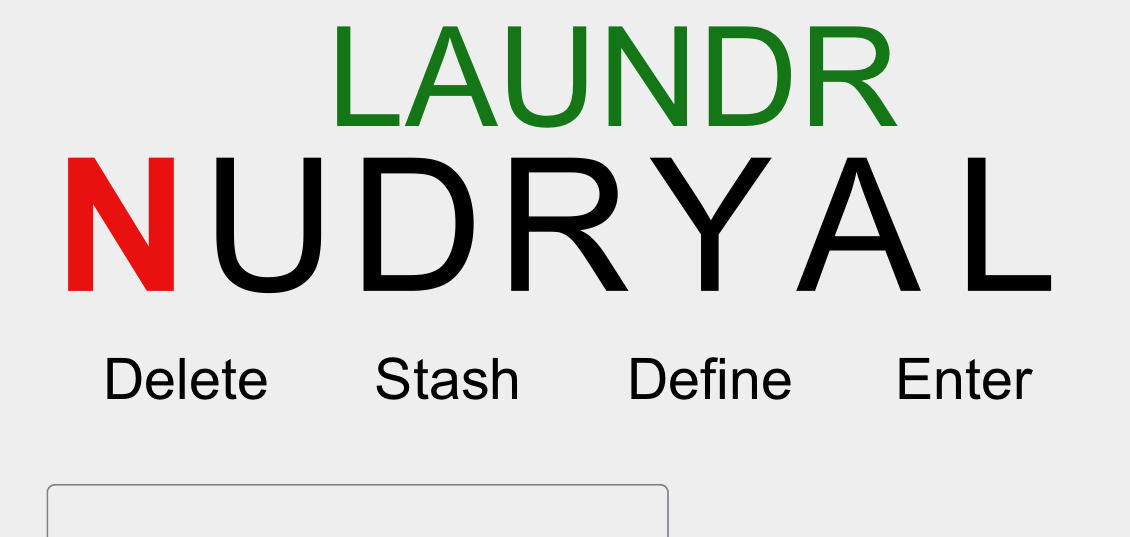
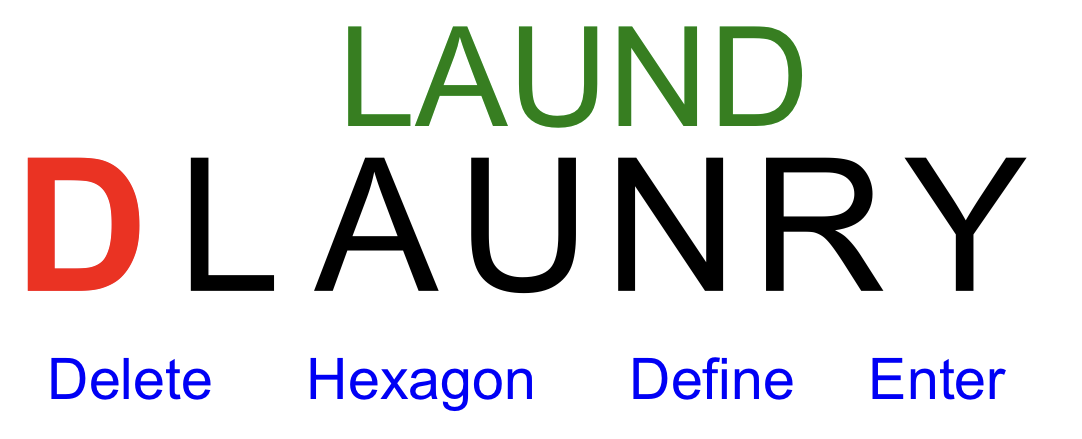
red space, doc tweaks

diff --git a/nytbee/js/nytbee9.js b/nytbee/js/nytbee9.js
@@ -1,0 +1,133 @@
+var lets;
+var nw;
+var hnw;
+var main;
+function init() {
+    nw   = document.getElementById('new_words');
+    hnw  = document.getElementById('hidden_new_words');
+    lets = document.getElementById('lets');
+    main = document.getElementById('main');
+}
+function empty(s) {
+    return s.trim().length === 0;
+}
+function add_let(c) {
+    lets.innerHTML += c;
+    if (c == ' ') {
+        var dis = document.getElementById('pos31').style.display;
+        if (dis != 'none') {
+            for (num = 1; num <= 3; ++num) {
+                document.getElementById('pos3' + num).style.display = 'none';
+            }
+        }
+        else if (lets.innerHTML.length > 16) {
+            lets.style.fontSize = '24px';
+        }
+    }
+}
+function add_redlet(c) {
+    lets.innerHTML += '<span class=red>' + c + '</span>';
+}
+// hello => hell
+// hell<span class="red">o</span> => hell
+function del_let() {
+    var s = lets.innerHTML;
+    var l = s.length;
+    if (s.substring(l-1) == '>') {
+        s = s.substring(0, l-26);
+    }
+    else {
+        s = s.substring(0, l-1);
+    }
+    lets.innerHTML = s;
+}
+function issue_cmd(s) {
+    hnw.value = s;
+    main.submit();
+}
+function stash_lets() {
+    hnw.value = 'SW ' + lets.textContent;
+    main.submit();
+}
+function sub_lets() {
+    hnw.value = lets.textContent;
+    main.submit();
+}
+function check_name_location() {
+    var name = document.getElementById('name');
+    if (empty(name.value)) {
+        alert('Please provide a Name.');
+        name.focus();
+        return false;
+    }
+    var location = document.getElementById('location');
+    if (empty(location.value)) {
+        alert('Please provide a Location.');
+        location.focus();
+        return false;
+    }
+    return true;
+}
+function add_clues() {
+    set_focus();
+    document.getElementById('add_clues').submit();
+}
+function clues_by(person_id) {
+    document.getElementById('person_id').value = person_id;
+    document.getElementById('clues_by').submit();
+    set_focus();
+}
+function set_focus() {
+    setTimeout(() => { window.scrollTo(0, 0); }, 20);
+    nw.focus();
+    return true;
+}
+// for obscuring my email address
+function xyz(s) {
+    var out = '';
+    for (let i = 0; i < s.length; ++i) {
+        out += String.fromCharCode(s.charCodeAt(i)-1);
+    }
+    return out;
+}
+function abcd(efg) {
+    document.write(xyz('=b!isfg>(nbjmup;Kpo!Ckpsotube!=kpo/ckpsotubeAhnbjm/dpn?@tvckfdu>OZU!Cff(?'));
+    document.write(efg + "</a>");
+}
+function copy_uuid_to_clipboard(uuid) {
+    navigator.clipboard.writeText(uuid);
+    show_copied('uuid');
+}
+function show_copied(id) {
+    var el = document.getElementById(id);
+    el.innerHTML = 'copied';
+    setTimeout(() => {
+        el.innerHTML = "";
+    }, 1000);
+}
+function full_def(word) {
+    window.open('https://wordnik.com/words/' + word,
+                '_blank', 'width=1000');
+    set_focus();
+}
+function popup_define(word, height, width) {
+    newwin = window.open(
+        "https://logicalpoetry.com/cgi-bin/nytbee_define.pl/"
+            + word, 'define',
+        'height=' + height + ',width=' + width +', scrollbars'
+    );
+    newwin.moveTo(800, 0);
+    document.getElementById(word + '_clue').focus();
+}
+function del_post(id) {
+    document.getElementById('x' + id).style.pointerEvents = "none";
+    if (confirm('Deleting your post. Are you sure?')) {
+        hnw.value = 'FX' + id;
+        main.submit();
+    }
+}
+function edit_post(id) {
+    document.getElementById('e' + id).style.pointerEvents = "none";
+    hnw.value = 'FE' + id;
+    main.submit();
+}

diff --git a/nytbee/help.html b/nytbee/help.html
@@ -4,7 +4,7 @@
 <meta charset='UTF-8'>
 <title>The ENHANCED NYT Spelling Bee Puzzle</title>
 <link rel='stylesheet' type='text/css' href='css/style.css'/>
-<script src='js/nytbee8.js'></script>
+<script src='js/nytbee9.js'></script>
 </head>
 <body>
 <h1><img height=70 src='pics/bee-logo.png'><br>The Spelling Bee Puzzle<br>of<br>
@@ -396,10 +396,23 @@ Tap on <span class=cmd>Forum</span> to toggle <a href=#forum>Forum Mode</a>.
 <p>
 If you wish to enter a command, see the list of found words,
 or view the Hint Table simply scroll down.
-<p>
+<h3>Inline Letters</h3>
 If you are adept at texting with your thumbs you may prefer using the <span class=cmd>H</span> command to toggle between the hexagon and having the letters arranged in a line (as in normal words) - like this:
 <p>
 <img src=pics/laundry_h.png width=800 border=1>
+<h3>Space and Multiple Words</h3>
+There is a hidden feature (aka Power User trick) when playing on a mobile phone.
+See this screenshot:
+<p>
+<img src=pics/redspace1.png width=800 border=1>
+<p>
+See the red pentagonal shape?  It won&#8217;t be red on your screen
+but tapping on that area will insert a space character.  This will
+enable you to enter multiple words before Entering them &ndash; as illustrated.
+When you have entered a lot of words the font will be reduced so you
+can enter even <i>more</i> words!
+<p>
+<img src=pics/redspace2.png width=800 border=1>
 <a name=hint_commands></a>
 <h2>Hint Commands
 <a class=top href=#toc><img src=pics/top.gif height=25></a>
@@ -891,15 +904,15 @@ To faciliate your search for Donut words you can toggle into &#8220;Donut Mode&#
 When you toggle the letter display with <span class=cmd>H</span> to show the letters in a straight line the center letter will be omitted.  Toggle <i>out</i> of Donut Mode with the command <span class=cmd>DN</span> as well.
 <p>
 When playing on a <a href=#mobile>mobile phone</a> there are links to toggle into and out of Donut mode.  In Donut mode the screen looks like this:
-<br>
-<img src=pics/mobile_donut.jpg style="width: 650px">
-<br>
+<p>
+<img src=pics/mobile_donut.jpg style="width: 650px" border=1>
+<p>
 Note: The center hexagon will issue a <i>space</i> so you can
 enter multiple donut words at the same time.
 <p>
-When viewing the letters horizontally they will look like this:
-<br>
-<img src=pics/mobile_donutH.jpg style="width: 500px">
+When viewing the letters horizontally (with the <span class=cmd>H</span> command) they will look like this:
+<p>
+<img src=pics/mobile_donutH.png style="width: 600px" border=1>
 <h3>Lexicon</h3>
 Another type of word is one that IS a real valid actual proper qualified word
 containing the center letter but which for some mysterious, arbitrary,
@@ -1924,7 +1937,7 @@ It is now added to daily at 3:00 a.m. EST by extracting the words
 from the New York Times site.  There are daily puzzles going all the way
 back to May 9, 2018.   There are now
 <!-- Do NOT mess with the next two lines - see cgi-bin/nytbee_list.pl! -->
-2211 puzzles with
+2212 puzzles with
 a total of 10150 different words!
 <p>
 Which puzzles from the large archive to play?
